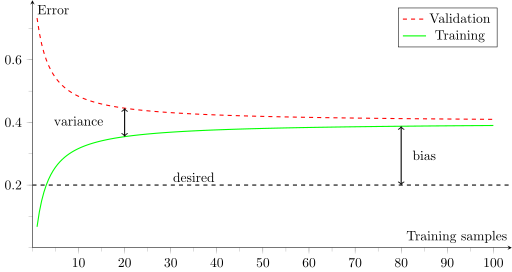
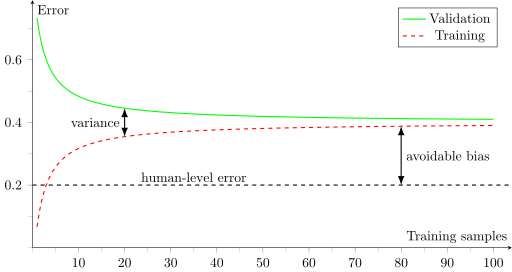
Update image

diff --git a/tikz/learn-curve-ml/learn-curve-ml.tex b/tikz/learn-curve-ml/learn-curve-ml.tex
@@ -5,9 +5,13 @@
 \usetikzlibrary{positioning}
 \usetikzlibrary{decorations.text}
 \usetikzlibrary{decorations.pathmorphing}
+\usetikzlibrary{arrows.meta}
 
 \begin{document}
 \begin{tikzpicture}
+    \tikzstyle{training}=[red, thick,samples=200,dashed]
+    \tikzstyle{testing}=[green, thick,samples=200]
+    \tikzstyle{arrow}=[<->, Latex-Latex, thick]
     \begin{axis}[
         legend pos=north east,
         axis x line=middle,
@@ -26,16 +30,14 @@
         tick align=outside,
         minor tick num=-3,
         tension=0.08]
-      \addplot[domain=1:100, red, thick,samples=200,dashed] {1/(x+2)+0.4};
-      \addplot[domain=1:100, green, thick,samples=200] {0.4-(1/(x+2))};
+      \addplot[domain=1:100, testing] {1/(x+2)+0.4};
+      \addplot[domain=1:100, training] {0.4-(1/(x+2))};
 
       % \draw[dashed,thick] (axis cs:0,0.4) -- (axis cs:110,0.4);
       \draw[dashed,thick] (axis cs:0,0.2) -- (axis cs:110,0.2);
-      \draw[thick,<->] (axis cs:80,0.2) -- (axis cs:80,0.3878);
-      \draw[thick,<->] (axis cs:20,0.3545) -- (axis cs:20,0.4454);
-      \draw[decoration={text along path, text={desired}, text align={center}}, decorate] (axis cs:20,0.21) -- (axis cs:50,0.21);
-      \draw[decoration={text along path, text={bias}, text align={center}}, decorate] (axis cs:80,0.28) -- (axis cs:90,0.28);
-      \draw[decoration={text along path, text={variance}, text align={center}}, decorate] (axis cs:0,0.39) -- (axis cs:20,0.39);
+      \path[arrow] (axis cs:80,0.2) edge node[right, midway] {avoidable bias} (axis cs:80,0.3878);
+      \path[arrow] (axis cs:20,0.3545) edge node[left, midway] {variance} (axis cs:20,0.4454);
+      \draw[decoration={text along path, text={human-level error}, text align={center}}, decorate] (axis cs:20,0.21) -- (axis cs:50,0.21);
 
       \addlegendentry{Validation}
       \addlegendentry{Training}
